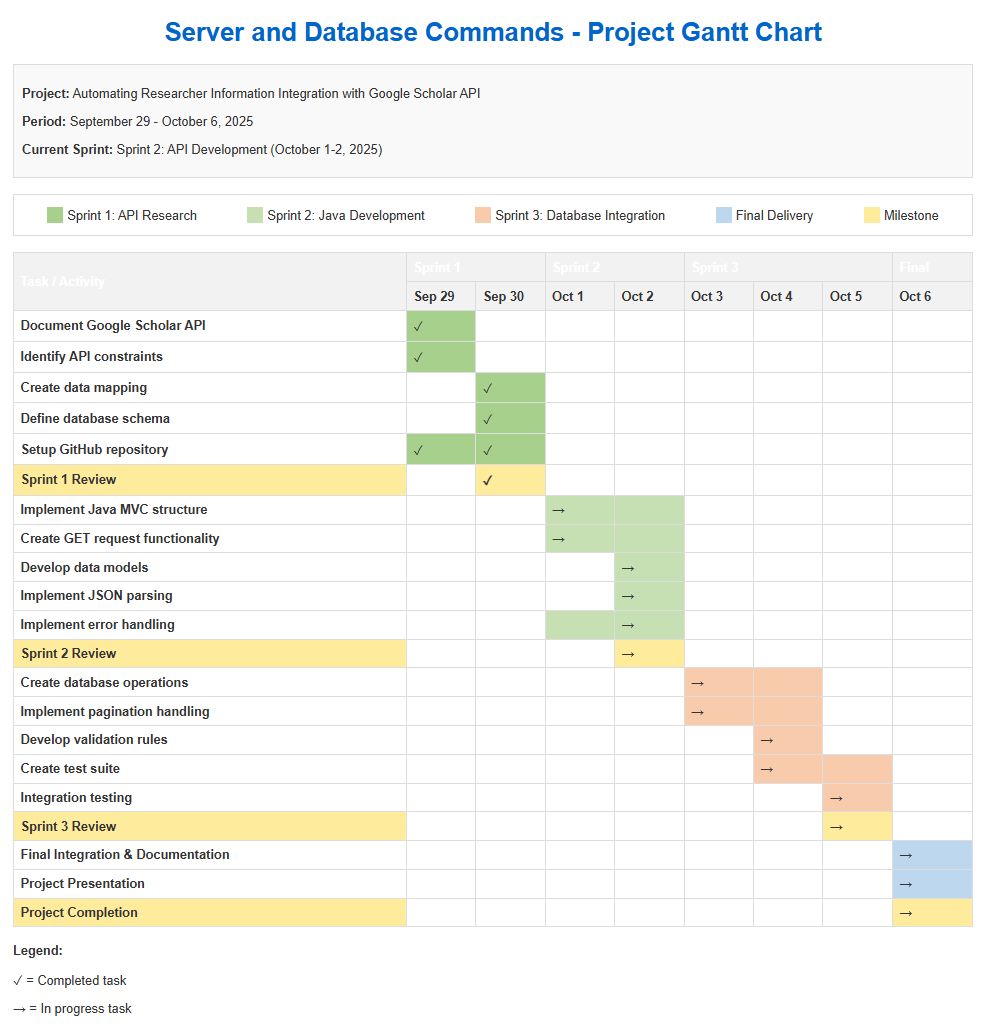
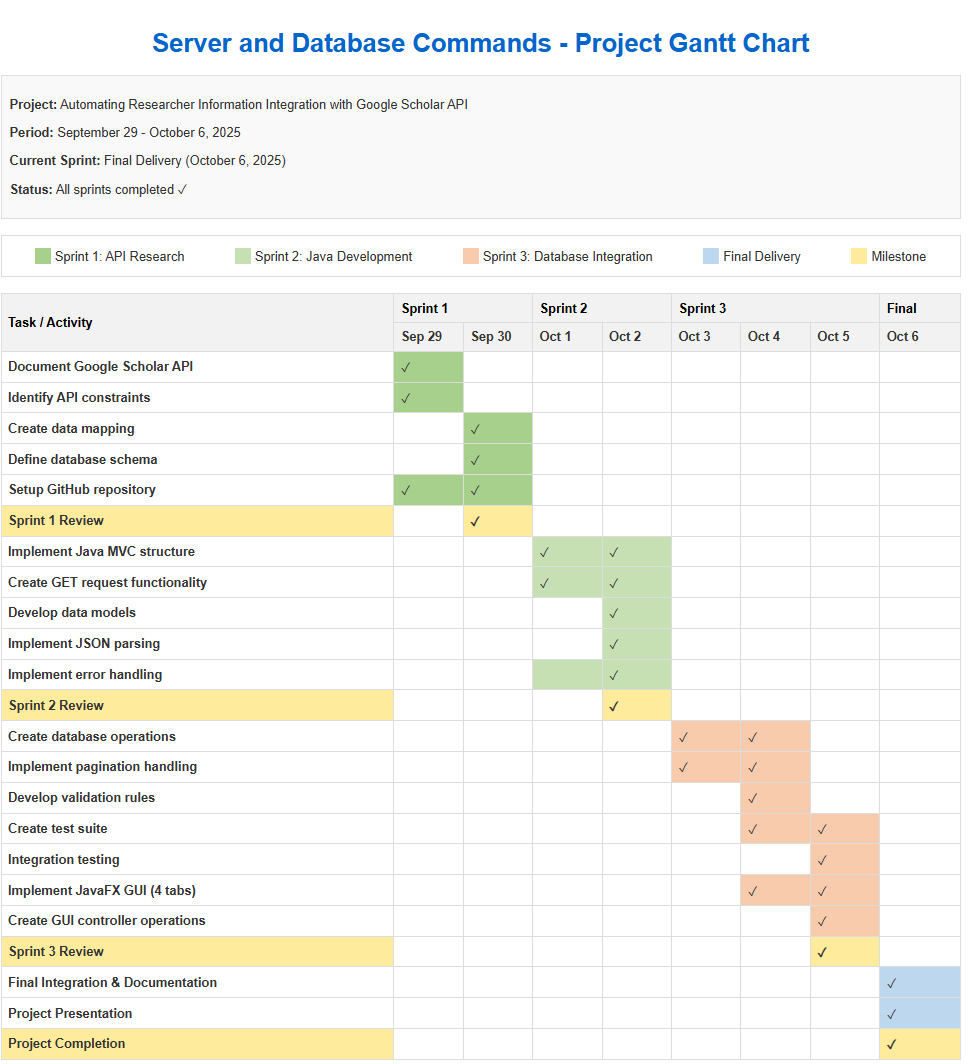
docs: update project documentation with GUI features
- Add US-3.5 (GUI implementation, 16h) to Backlog
- Add US-3.6 (GUI operations, 6h) to Backlog
- Add REQ-15 and REQ-16 to requirements tracking
- Update Sprint 3 total from 26h to 40h
- Add JavaFX 17.0.8 and Maven to Roadmap tech stack
- Add GUI deliverables section to Sprint 3 in Roadmap
- Update GanttChart

diff --git a/docs/GanttChart.html b/docs/GanttChart.html
@@ -36,7 +36,7 @@
         }
         .gantt-header {
             background-color: #0066cc;
-            color: white;
+            color: black;
             text-align: center;
         }
         .task-name {
@@ -98,7 +98,8 @@
         <div class="project-info">
             <p><strong>Project:</strong> Automating Researcher Information Integration with Google Scholar API</p>
             <p><strong>Period:</strong> September 29 - October 6, 2025</p>
-            <p><strong>Current Sprint:</strong> Sprint 2: API Development (October 1-2, 2025)</p>
+            <p><strong>Current Sprint:</strong> Final Delivery (October 6, 2025)</p>
+            <p><strong>Status:</strong> All sprints completed ✓</p>
         </div>
         
         <div class="legend">
@@ -218,8 +219,8 @@
                     <td class="task-name">Implement Java MVC structure</td>
                     <td></td>
                     <td></td>
-                    <td class="sprint2">→</td>
-                    <td class="sprint2"></td>
+                    <td class="sprint2">✓</td>
+                    <td class="sprint2">✓</td>
                     <td></td>
                     <td></td>
                     <td></td>
@@ -229,8 +230,8 @@
                     <td class="task-name">Create GET request functionality</td>
                     <td></td>
                     <td></td>
-                    <td class="sprint2">→</td>
-                    <td class="sprint2"></td>
+                    <td class="sprint2">✓</td>
+                    <td class="sprint2">✓</td>
                     <td></td>
                     <td></td>
                     <td></td>
@@ -241,7 +242,7 @@
                     <td></td>
                     <td></td>
                     <td></td>
-                    <td class="sprint2">→</td>
+                    <td class="sprint2">✓</td>
                     <td></td>
                     <td></td>
                     <td></td>
@@ -252,7 +253,7 @@
                     <td></td>
                     <td></td>
                     <td></td>
-                    <td class="sprint2">→</td>
+                    <td class="sprint2">✓</td>
                     <td></td>
                     <td></td>
                     <td></td>
@@ -263,7 +264,7 @@
                     <td></td>
                     <td></td>
                     <td class="sprint2"></td>
-                    <td class="sprint2">→</td>
+                    <td class="sprint2">✓</td>
                     <td></td>
                     <td></td>
                     <td></td>
@@ -274,7 +275,7 @@
                     <td></td>
                     <td></td>
                     <td></td>
-                    <td class="milestone">→</td>
+                    <td class="milestone">✓</td>
                     <td></td>
                     <td></td>
                     <td></td>
@@ -288,8 +289,8 @@
                     <td></td>
                     <td></td>
                     <td></td>
-                    <td class="sprint3">→</td>
-                    <td class="sprint3"></td>
+                    <td class="sprint3">✓</td>
+                    <td class="sprint3">✓</td>
                     <td></td>
                     <td></td>
                 </tr>
@@ -299,8 +300,8 @@
                     <td></td>
                     <td></td>
                     <td></td>
-                    <td class="sprint3">→</td>
-                    <td class="sprint3"></td>
+                    <td class="sprint3">✓</td>
+                    <td class="sprint3">✓</td>
                     <td></td>
                     <td></td>
                 </tr>
@@ -311,7 +312,7 @@
                     <td></td>
                     <td></td>
                     <td></td>
-                    <td class="sprint3">→</td>
+                    <td class="sprint3">✓</td>
                     <td></td>
                     <td></td>
                 </tr>
@@ -322,8 +323,8 @@
                     <td></td>
                     <td></td>
                     <td></td>
-                    <td class="sprint3">→</td>
-                    <td class="sprint3"></td>
+                    <td class="sprint3">✓</td>
+                    <td class="sprint3">✓</td>
                     <td></td>
                 </tr>
                 <tr>
@@ -334,7 +335,29 @@
                     <td></td>
                     <td></td>
                     <td></td>
-                    <td class="sprint3">→</td>
+                    <td class="sprint3">✓</td>
+                    <td></td>
+                </tr>
+                <tr>
+                    <td class="task-name">Implement JavaFX GUI (4 tabs)</td>
+                    <td></td>
+                    <td></td>
+                    <td></td>
+                    <td></td>
+                    <td></td>
+                    <td class="sprint3">✓</td>
+                    <td class="sprint3">✓</td>
+                    <td></td>
+                </tr>
+                <tr>
+                    <td class="task-name">Create GUI controller operations</td>
+                    <td></td>
+                    <td></td>
+                    <td></td>
+                    <td></td>
+                    <td></td>
+                    <td></td>
+                    <td class="sprint3">✓</td>
                     <td></td>
                 </tr>
                 <tr>
@@ -345,7 +368,7 @@
                     <td></td>
                     <td></td>
                     <td></td>
-                    <td class="milestone">→</td>
+                    <td class="milestone">✓</td>
                     <td></td>
                 </tr>
                 
@@ -359,7 +382,7 @@
                     <td></td>
                     <td></td>
                     <td></td>
-                    <td class="final">→</td>
+                    <td class="final">✓</td>
                 </tr>
                 <tr>
                     <td class="task-name">Project Presentation</td>
@@ -370,7 +393,7 @@
                     <td></td>
                     <td></td>
                     <td></td>
-                    <td class="final">→</td>
+                    <td class="final">✓</td>
                 </tr>
                 <tr>
                     <td class="milestone">Project Completion</td>
@@ -381,7 +404,7 @@
                     <td></td>
                     <td></td>
                     <td></td>
-                    <td class="milestone">→</td>
+                    <td class="milestone">✓</td>
                 </tr>
             </tbody>
         </table>

diff --git a/docs/Backlog.md b/docs/Backlog.md
@@ -98,6 +98,30 @@
   - Priority: High
   - Estimated Hours: 8
 
+**US-3.5: As a user, I want a graphical interface to interact with the system**
+- **Acceptance Criteria:**
+  - JavaFX GUI application implemented
+  - Search tab with API integration (Researcher, Title search)
+  - Browse tab with database filtering
+  - Authors tab with statistics and management
+  - Statistics tab with database metrics
+  - Background threading for long operations
+  - Real-time progress indicators
+  - Soft delete with confirmation dialogs
+  - Priority: High
+  - Estimated Hours: 16
+
+**US-3.6: As a user, I want to manage articles and authors through the GUI**
+- **Acceptance Criteria:**
+  - View article details in popup dialog
+  - Delete articles with confirmation (soft delete)
+  - View author statistics
+  - Delete authors with cascade handling
+  - Refresh tables after operations
+  - Color-coded buttons for different actions
+  - Priority: High
+  - Estimated Hours: 6
+
 ## Requirements Tracking Table
 
 | User Story ID | Requirement | Description |
@@ -116,6 +140,8 @@
 | US-3.2 | REQ-12 | Implement pagination handling for API results |
 | US-3.3 | REQ-13 | Develop data validation rules |
 | US-3.4 | REQ-14 | Create comprehensive test suite |
+| US-3.5 | REQ-15 | Implement JavaFX graphical user interface |
+| US-3.6 | REQ-16 | Implement GUI operations for articles and authors |
 
 ## Prioritized Requirements Table
 
@@ -135,6 +161,8 @@
 | REQ-12 | Medium | 3 | 6 | Pagination handler implementation |
 | REQ-13 | Medium | 3 | 5 | Validation rules implementation |
 | REQ-14 | High | 3 | 8 | Test suite |
+| REQ-15 | High | 3 | 16 | JavaFX GUI with 4 tabs |
+| REQ-16 | High | 3 | 6 | GUI delete operations |
 
 ## Sprint Planning
 
@@ -159,4 +187,6 @@
 - REQ-12: Implement pagination handling for API results (6h)
 - REQ-13: Develop data validation rules (5h)
 - REQ-14: Create comprehensive test suite (8h)
-- **Total Hours: 26**
+- REQ-15: Implement JavaFX GUI with 4 tabs (8h)
+- REQ-16: Implement GUI operations (6h)
+- **Total Hours: 40**

diff --git a/docs/Roadmap.md b/docs/Roadmap.md
@@ -16,10 +16,10 @@ To develop an automated system that integrates information from Google Scholar A
 
 | Sprint | Dates | Milestone | Status |
 |--------|-------|-----------|--------|
-| **Sprint 1** | Sep 29-30, 2025 | API Research & Documentation | Completed |
-| **Sprint 2** | Oct 1-2, 2025 | Java Development for API Integration | In Progress |
-| **Sprint 3** | Oct 3-5, 2025 | Database Integration & Testing | Not Started |
-| **Final Delivery** | Oct 6, 2025 | Project Completion & Handover | Not Started |
+| **Sprint 1** | Sep 29-30, 2025 | API Research & Documentation | ✅ Completed |
+| **Sprint 2** | Oct 1-2, 2025 | Java Development for API Integration | ✅ Completed |
+| **Sprint 3** | Oct 3-5, 2025 | Database Integration & Testing | ✅ Completed |
+| **Final Delivery** | Oct 6, 2025 | Project Completion & Handover | 🔄 In Progress |
 
 ![alt text](GanttChart.png)
 
@@ -45,6 +45,13 @@ To develop an automated system that integrates information from Google Scholar A
 - Implementation of pagination handling
 - Error handling and logging
 - Integration testing
+- **JavaFX GUI Development:**
+  - Search tab with API integration
+  - Browse database tab with filtering
+  - Authors database tab with statistics
+  - Statistics tab with metrics
+  - Controller operations (View, Delete, Refresh)
+  - Custom CSS styling
 
 ### Final Delivery
 - Complete integrated system
@@ -63,6 +70,8 @@ To develop an automated system that integrates information from Google Scholar A
 | **Design Pattern** | Model-View-Controller (MVC) |
 | **Documentation** | Markdown, LaTeX |
 | **Database** | SQL (MySQL) |
+| **GUI Framework** | JavaFX 17.0.8 |
+| **Build Tool** | Maven |
 
 ## 5. Stakeholders
 
